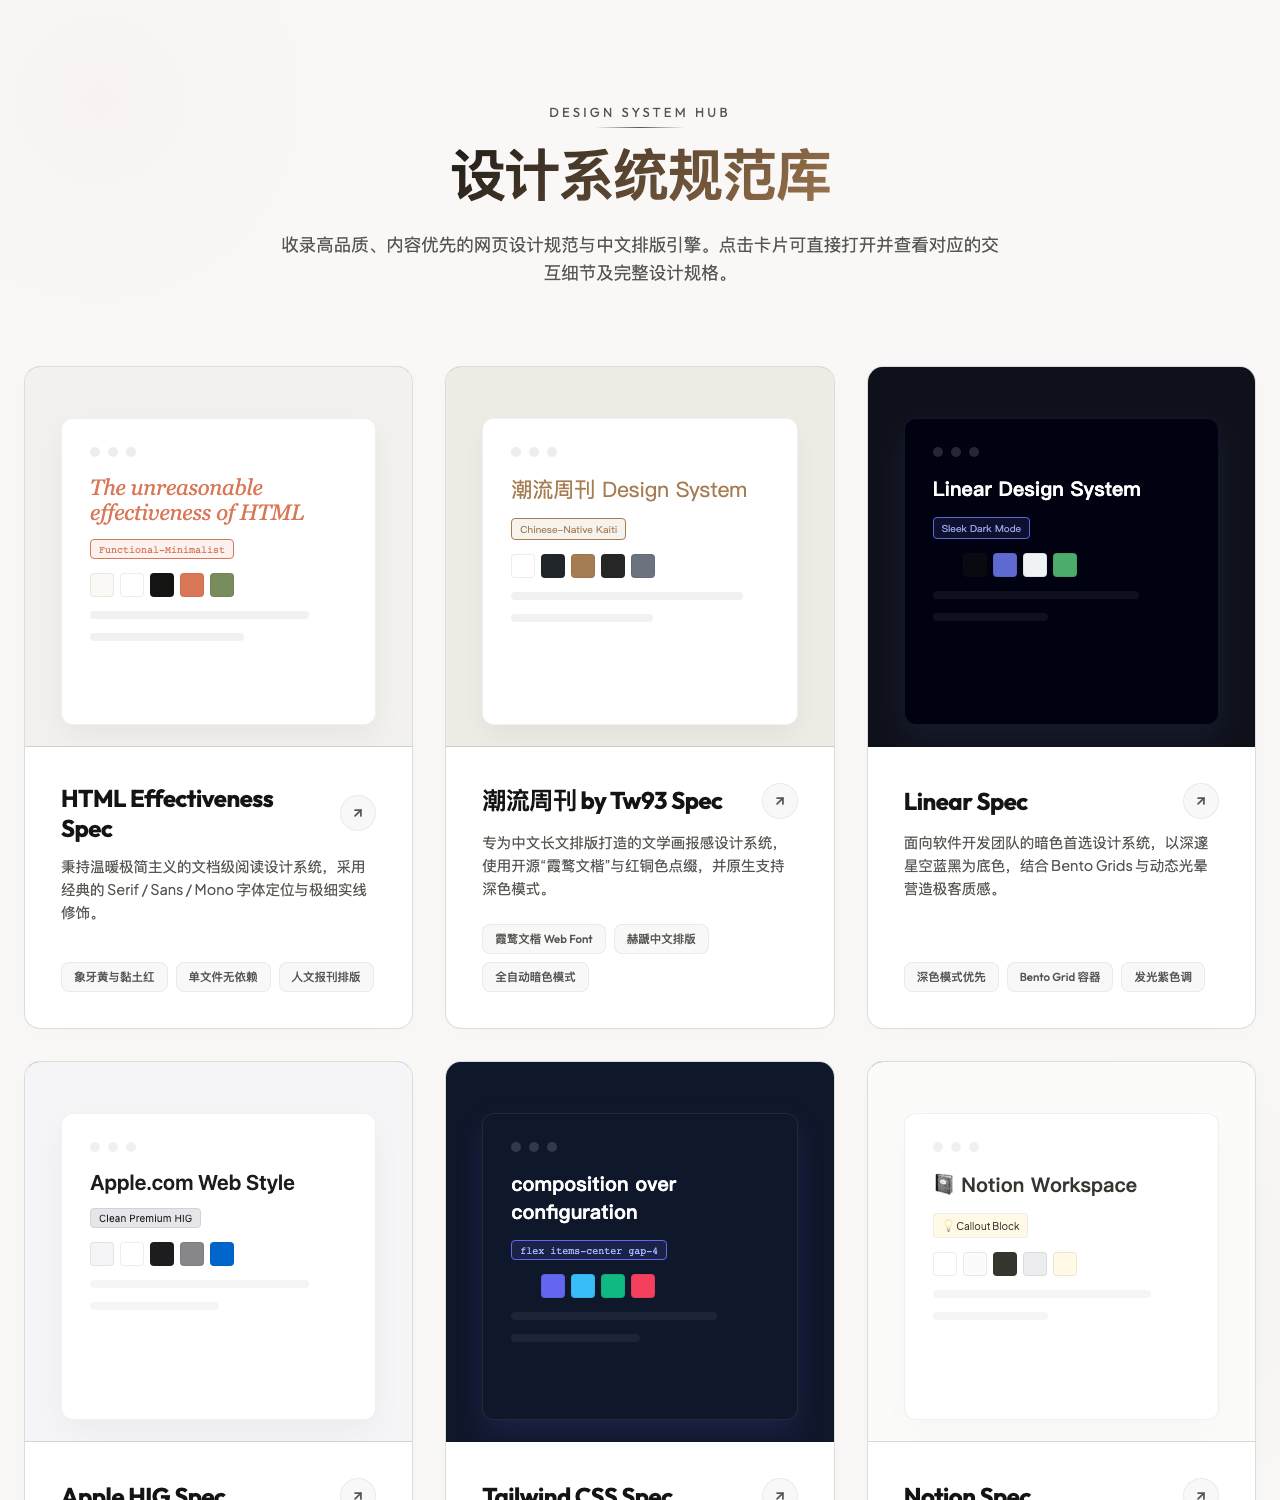
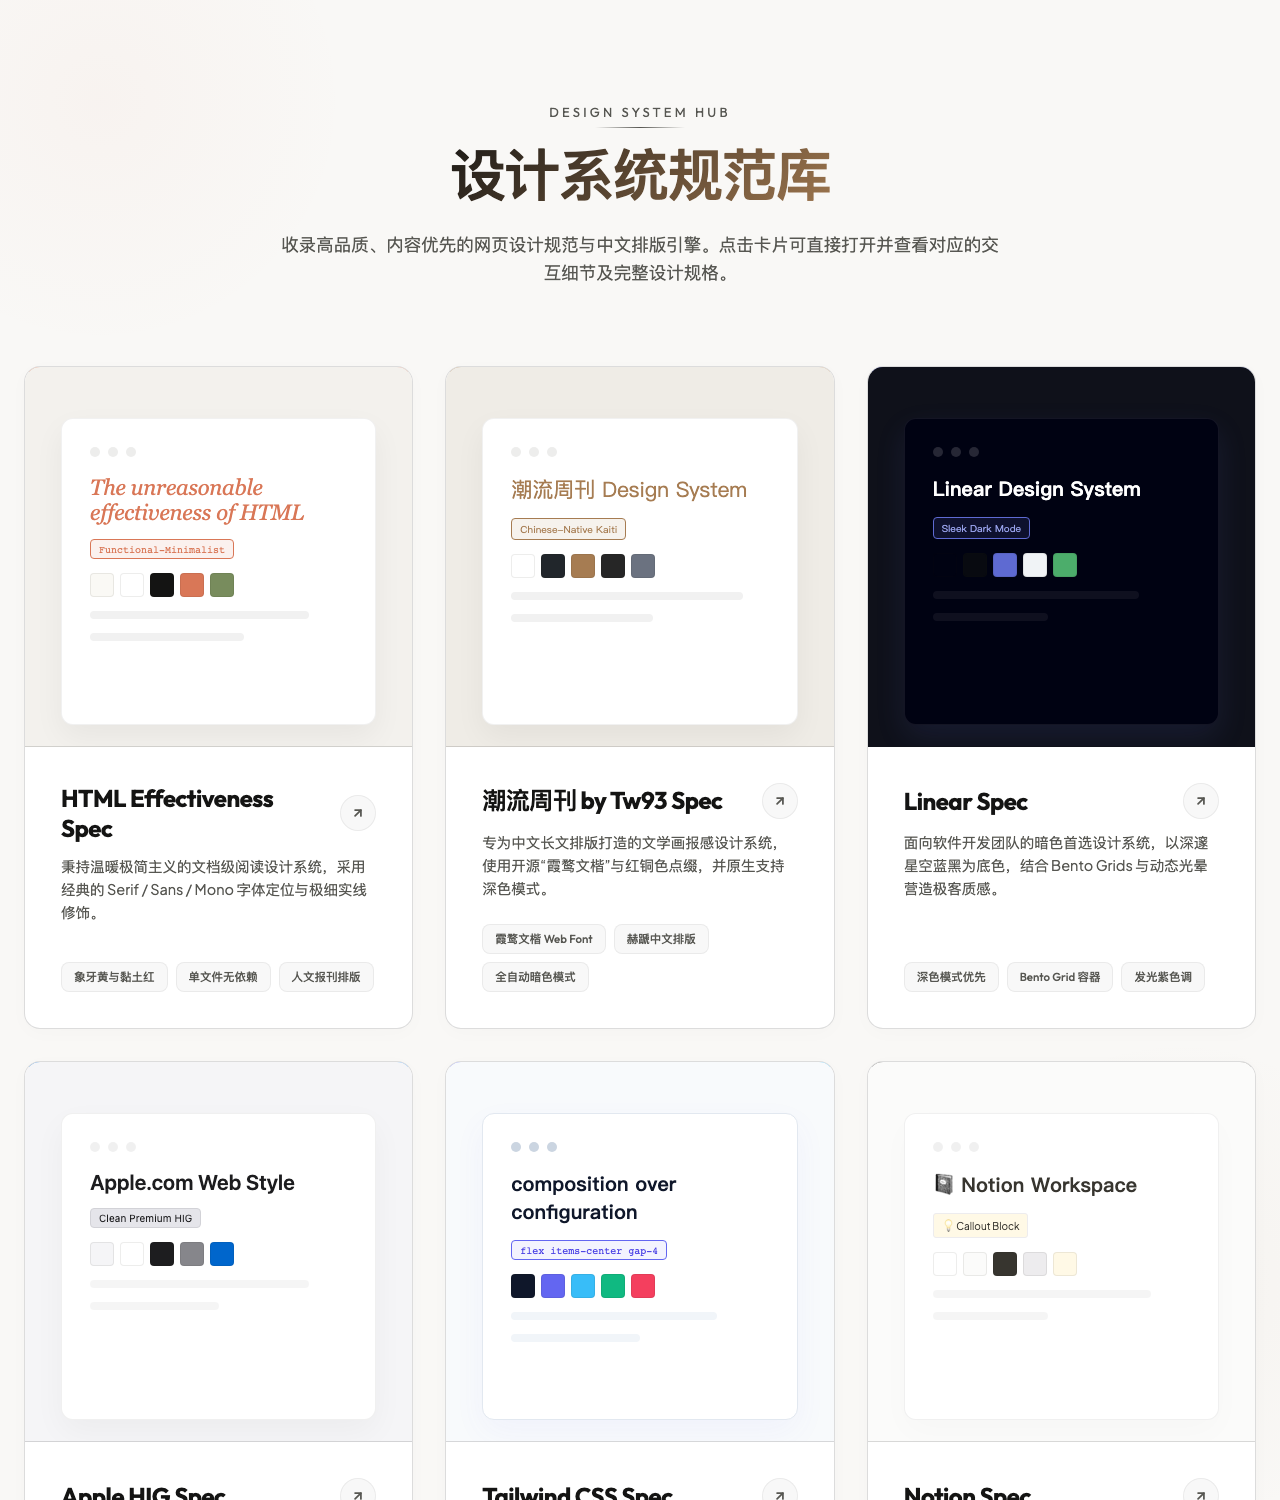
style: change Tailwind CSS and Vue card themes to light mode on hub page

Changed region(s): [[0.3438, 0.7053, 0.6562, 0.9813]]

diff --git a/index.html b/index.html
@@ -269,13 +269,13 @@
       background: #f5f5f7;
     }
     .card.tailwind .card-preview {
-      background: #0f172a;
+      background: #f8fafc;
     }
     .card.notion .card-preview {
       background: #fbfbfa;
     }
     .card.vue .card-preview {
-      background: #1b1b1f;
+      background: #f6f6f7;
     }
 
     /* Visual Mockup inside card preview */
@@ -435,26 +435,26 @@
 
     /* Tailwind Mockup Styles */
     .card.tailwind .mockup-container {
-      background: #0f172a;
-      border-color: rgba(255, 255, 255, 0.08);
-      box-shadow: 0 12px 30px rgba(99, 102, 241, 0.15);
+      background: #ffffff;
+      border-color: #e2e8f0;
+      box-shadow: 0 12px 32px rgba(99, 102, 241, 0.05);
     }
     .card.tailwind .mockup-dot {
-      background: rgba(255, 255, 255, 0.15);
+      background: #cbd5e1;
     }
     .card.tailwind .mockup-line {
-      background: rgba(255, 255, 255, 0.06);
+      background: #f1f5f9;
     }
     .card.tailwind .mockup-title {
       font-family: 'Inter', sans-serif;
       font-size: 20px;
       font-weight: 800;
-      color: #ffffff;
+      color: #0f172a;
     }
     .card.tailwind .mockup-tag {
-      background: rgba(99, 102, 241, 0.15);
+      background: rgba(99, 102, 241, 0.08);
       border: 1px solid var(--accent-tailwind);
-      color: #a5b4fc;
+      color: #4f46e5;
       font-size: 10px;
       padding: 3px 8px;
       border-radius: 4px;
@@ -492,26 +492,26 @@
 
     /* Vue Mockup Styles */
     .card.vue .mockup-container {
-      background: #1b1b1f;
-      border-color: rgba(255, 255, 255, 0.08);
-      box-shadow: 0 12px 30px rgba(66, 184, 131, 0.15);
+      background: #ffffff;
+      border-color: #e2e2e3;
+      box-shadow: 0 12px 32px rgba(66, 184, 131, 0.05);
     }
     .card.vue .mockup-dot {
-      background: rgba(255, 255, 255, 0.15);
+      background: #e2e2e3;
     }
     .card.vue .mockup-line {
-      background: rgba(255, 255, 255, 0.06);
+      background: #f6f6f7;
     }
     .card.vue .mockup-title {
       font-family: 'Inter', sans-serif;
       font-size: 18px;
       font-weight: 700;
-      color: #42b883;
+      color: #2c3e50;
     }
     .card.vue .mockup-tag {
-      background: rgba(66, 184, 131, 0.12);
-      border: 1px solid var(--accent-vue);
-      color: #42b883;
+      background: #f0f9eb;
+      border: 1px solid #42b883;
+      color: #3ca272;
       font-size: 9px;
       padding: 3px 8px;
       border-radius: 4px;
@@ -1076,8 +1076,8 @@
                 <div class="mockup-swatch-chip" style="background:#1b1b1f" title="canvas-dark"></div>
                 <div class="mockup-swatch-chip" style="background:#f6f6f7" title="surface-alt"></div>
               </div>
-              <div class="mockup-line" style="width: 82%; border-left: 3px solid #42b883; padding-left: 8px;"></div>
-              <div class="mockup-line" style="width: 50%; border-left: 3px solid #42b883; padding-left: 8px;"></div>
+              <div class="mockup-line" style="width: 82%; border-left: 3px solid #42b883; padding-left: 8px; background: #f0f9eb;"></div>
+              <div class="mockup-line" style="width: 50%; border-left: 3px solid #42b883; padding-left: 8px; background: #f0f9eb;"></div>
             </div>
           </div>
         </div>